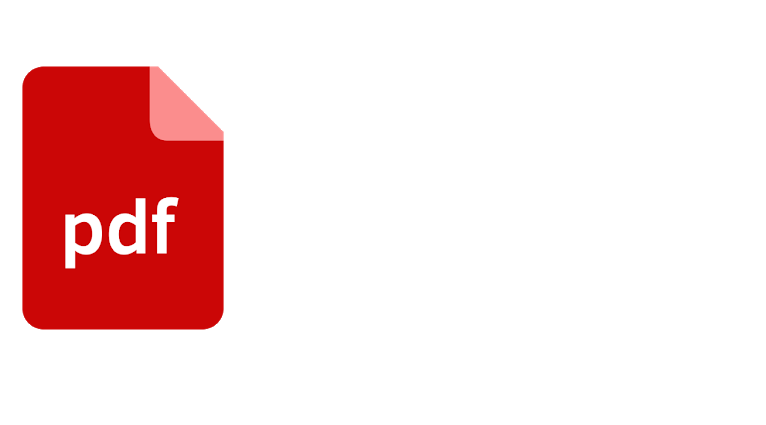
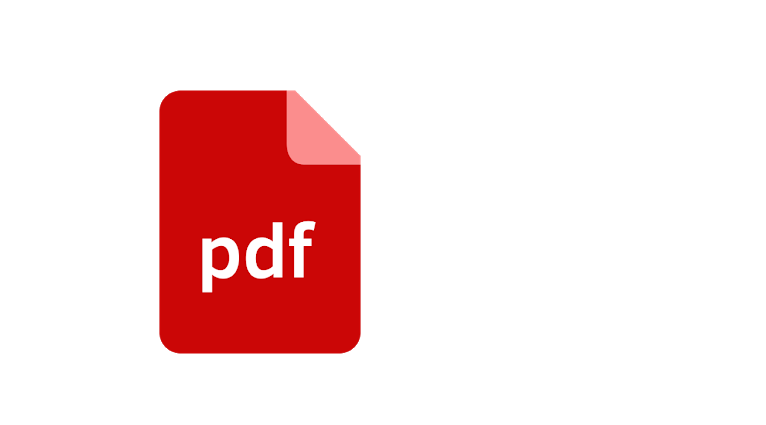
improve index page

Changed region(s): [[0.03, 0.1529, 0.4804, 0.8565]]

diff --git a/index.html b/index.html
@@ -64,8 +64,8 @@
                 <br/>
                 <b> Birthday:</b> 09.06.1993<br/>
                 <b> Nationality:</b> Albanian
-                <br/> <br/>
-                <b> Languages:</b>
+                <br/> 
+
                 <br/>
                 <li style="list-style-image:url('image/al.png');">Native Speaker</li>
                 <li style="list-style-image:url('image/en.png');">Full Proficiency</li>
@@ -74,18 +74,23 @@
 				
 				<br/>
 				
-				<b> Professional Networks:</b>
-                <li style="list-style: none;"><a class="logo" href="https://www.linkedin.com/in/desared/">
-                    <img src="image/linkedin.jpg" height="50" width="135" alt="logo">
-                </a></li>
-                <li style="list-style: none;"><a  class="logo" href="https://github.com/desared">
-                    <img src="image/github.jpg" height="35" width="110" alt="logo">
-                </a></li>
+
+                <a class="logo" href="https://www.linkedin.com/in/desared/">
+                    <img src="image/linkedin.jpg" height="80" width="80" alt="logo">
+                </a>
+                <a  class="logo" href="https://github.com/desared">
+                    <img src="image/github.jpg" height="60" width="60" alt="logo">
+                </a><br/>
+				<a class="logo" href="https://www.facebook.com/desared.osmanllari">
+                    <img src="image/facebook.jpg" height="78" width="78" alt="logo">
+                </a>
+                <a  class="logo" href="https://www.instagram.com/desared/">
+                    <img src="image/instagram.jpg" height="60" width="60" alt="logo">
+                </a>
 				<br/>
-				<b> CV:</b>
-                <li style="list-style: none;"><a class="logo" href="pdf/CVOsmanllari.pdf" download>
-                    <img src="image/pdf.jpg" alt="CV" width="85" height="50">
-                </a></li>
+                <a class="logo" href="pdf/CVOsmanllari.pdf" download>
+                    <img src="image/pdf.jpg" alt="CV" width="110" height="70">
+                </a>
                 <br/>
             </div>
             <div style="padding-left: 220px;" >
